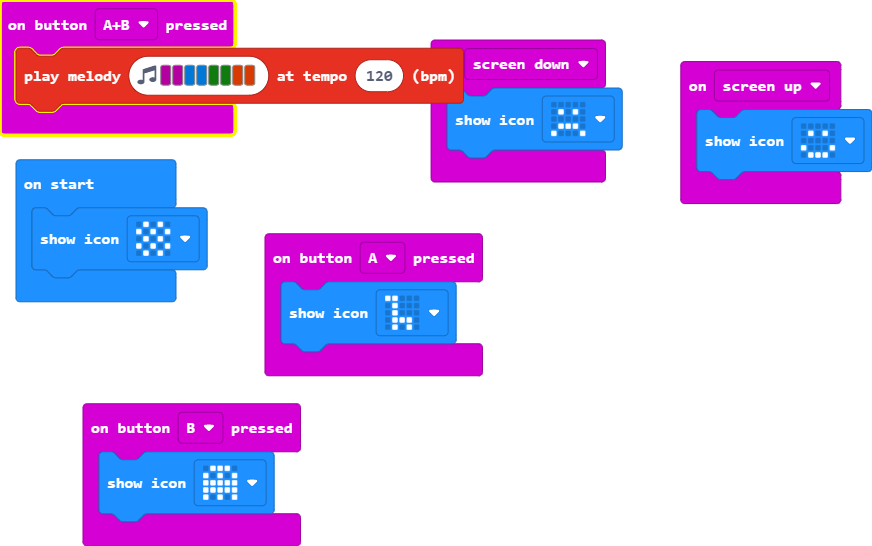
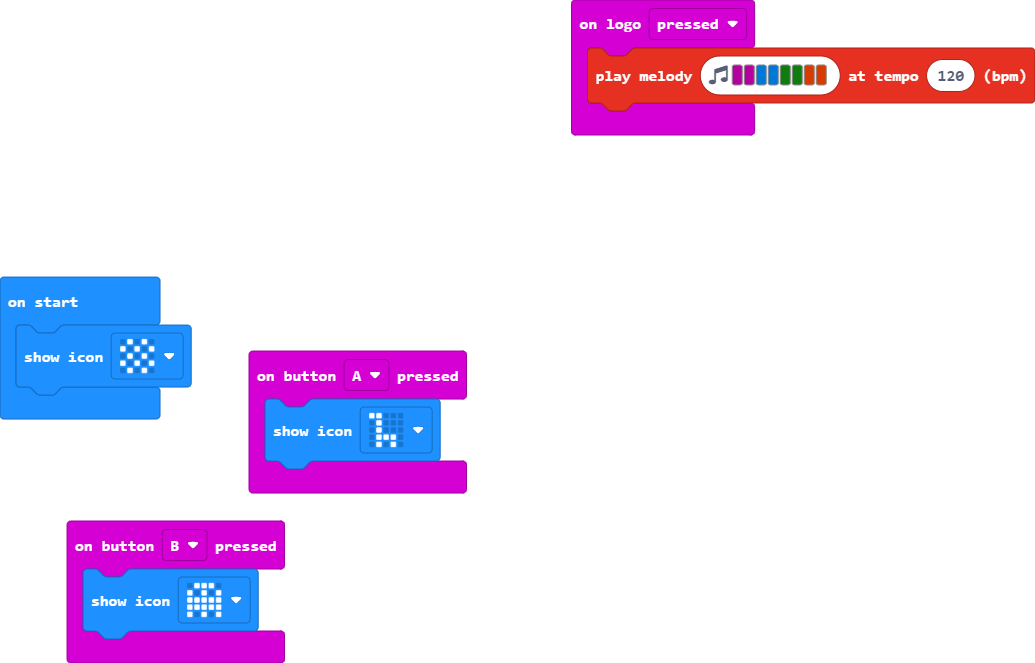
Update main.blocks, main.ts

diff --git a/main.ts b/main.ts
@@ -1,16 +1,10 @@
 input.onButtonPressed(Button.A, function () {
     basic.showIcon(IconNames.Giraffe)
 })
-input.onGesture(Gesture.ScreenUp, function () {
-    basic.showIcon(IconNames.Happy)
-})
-input.onGesture(Gesture.ScreenDown, function () {
-    basic.showIcon(IconNames.Sad)
-})
-input.onButtonPressed(Button.AB, function () {
-    music.playMelody("C C E E G G B B ", 120)
-})
 input.onButtonPressed(Button.B, function () {
     basic.showIcon(IconNames.Ghost)
+})
+input.onLogoEvent(TouchButtonEvent.Pressed, function () {
+    music.playMelody("C C E E G G B B ", 120)
 })
 basic.showIcon(IconNames.Chessboard)
